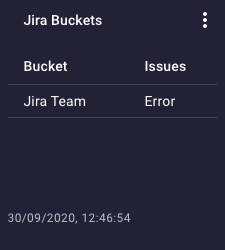
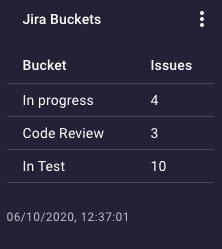
Adding new documentation screens, replacing jira buckets and aemhealtcheck assets

diff --git a/cogboard-webapp/src/components/widgets/dialogFields/styled.js b/cogboard-webapp/src/components/widgets/dialogFields/styled.js
@@ -28,7 +28,7 @@ export const StyledList = styled(List)`
 
   &:not(:empty) {
     margin-top: 16px;
-    overflow-y: scroll;
+    overflow-y: auto;
     max-height: 160px;
   }
 
